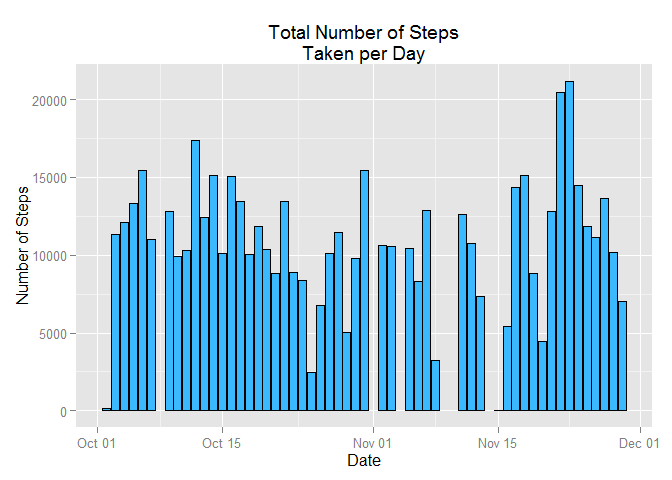
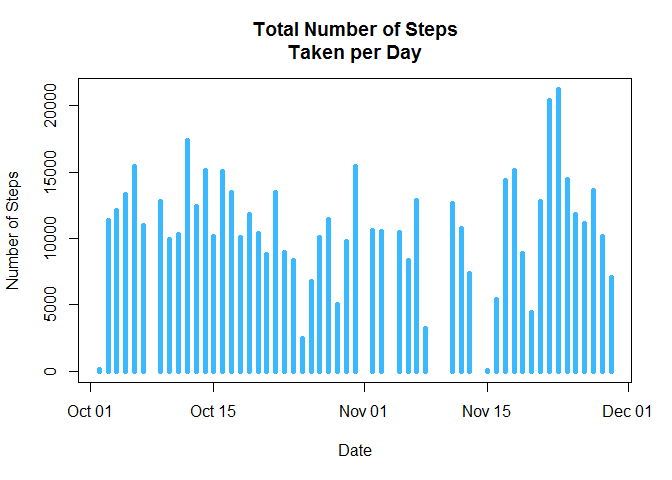
More plot edits

diff --git a/PA1_template.html b/PA1_template.html
@@ -90,6 +90,12 @@ df &lt;- data.frame(data)</code></pre>
 <li>Make a histogram of the total number of steps taken each day.</li>
 </ol></li>
 </ul>
+<pre class="r"><code>plot(xSumPerDay$date, xSumPerDay$steps, type='h',
+     main='Total Number of Steps\nTaken per Day',
+     xlab='Date',
+     ylab='Number of Steps',
+     col='#3BB9FF', lwd=5)</code></pre>
[1 lines of base64/hex data omitted]
 <pre class="r"><code>p1 &lt;- ggplot(xSumPerDay, aes(x=date, y=steps)) +
         geom_histogram(stat='identity', fill='#3BB9FF', colour='black') +
         ggtitle('Total Number of Steps\nTaken per Day') +

diff --git a/PA1_template.md b/PA1_template.md
@@ -46,6 +46,18 @@ xSumPerDay <- aggregate(steps ~ date, df, sum)
 
 
 ```r
+plot(xSumPerDay$date, xSumPerDay$steps, type='h',
+     main='Total Number of Steps\nTaken per Day',
+     xlab='Date',
+     ylab='Number of Steps',
+     col='#3BB9FF', lwd=5)
+```
+
+![](PA1_template_files/figure-html/unnamed-chunk-5-1.png) 
+
+
+
+```r
 p1 <- ggplot(xSumPerDay, aes(x=date, y=steps)) +
         geom_histogram(stat='identity', fill='#3BB9FF', colour='black') +
         ggtitle('Total Number of Steps\nTaken per Day') +
@@ -54,7 +66,7 @@ p1 <- ggplot(xSumPerDay, aes(x=date, y=steps)) +
 p1
 ```
 
-![](PA1_template_files/figure-html/unnamed-chunk-5-1.png) 
+![](PA1_template_files/figure-html/unnamed-chunk-6-1.png) 
 
   
 - c. Calculate and report the mean and median of the total number of steps taken per day
@@ -96,7 +108,7 @@ ggplot(xMeanPerInterval, aes(interval,steps)) +
   ylab('Number of Steps')
 ```
 
-![](PA1_template_files/figure-html/unnamed-chunk-8-1.png) 
+![](PA1_template_files/figure-html/unnamed-chunk-9-1.png) 
 
 - b. Which 5-minute interval, on average across all the days in the dataset, contains the maximum number of steps?
 
@@ -156,7 +168,7 @@ ggplot(df1, aes(date,steps)) +
   ylab('Number of Steps')
 ```
 
-![](PA1_template_files/figure-html/unnamed-chunk-14-1.png) 
+![](PA1_template_files/figure-html/unnamed-chunk-15-1.png) 
 
 - e. Calculate and report the mean and median of the total number of steps taken per day
 
@@ -215,4 +227,4 @@ ggplot(xMeanPerDayType, aes(x=interval, y=steps, group=dayOfWeek)) +
   xlab("5 Minute Intervals")
 ```
 
-![](PA1_template_files/figure-html/unnamed-chunk-19-1.png) 
+![](PA1_template_files/figure-html/unnamed-chunk-20-1.png) 
